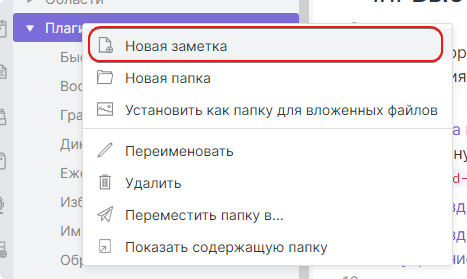
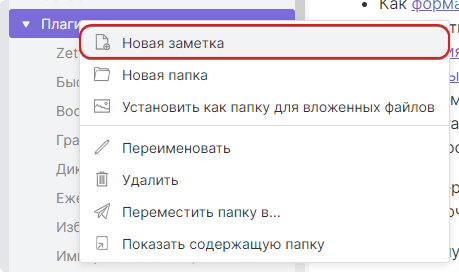
20210505 -- re-taked few images
20210505 -- re-taked few images

diff --git a/Плагины/Восстановление файлов.md b/Плагины/Восстановление файлов.md
@@ -21,7 +21,7 @@
 3. Нажмите на кнопку «Обзор» в подразделе «Снимки»;
 4. В открывшемся окне, в строке поиска слева, наберите имя файла, который вы хотите восстановить. Если имя файла не отображается, это означает, что для этого файла не было сделано снимков;
 5. После выбора нужного файла с левой стороны будет отображаться список сделанных снимков по дате. Выберите тот, который хотите восстановить;
-6. Содержимое снимка будет отображаться с правой стороны окна. Вы можете выбрать для копирования какую-либо его часть или нажать на кнопку «Скопировать в буфер обмена» (Copy to clipboard), чтобы скопировать его содержимое целиком.
+6. Содержимое снимка будет отображаться с правой стороны окна. Вы можете выбрать для копирования какую-либо его часть или нажать на кнопку «Скопировать в буфер обмена», чтобы скопировать его содержимое целиком.
 
 ## Настройки
 

diff --git a/Плагины/Шаблоны.md b/Плагины/Шаблоны.md
@@ -34,4 +34,4 @@ _Подсказка: если вы хотите иметь два формата
 
 ### Использование пользовательских форматов дат в других местах
 
-В настоящее время такие форматы даты и времени, как `{{date:YYYY-MM-DD}}` и `{{time:HH:mm}}` также работают в файле шаблонов плагинов [[Ежедневные заметки]] и [[Префикс Zettelkasten]]. Однако, `{{date}}` и `{{time}}` пока не работают.
+В настоящее время такие форматы даты и времени, как `{{date:YYYY-MM-DD}}` и `{{time:HH:mm}}` также работают в файле шаблонов плагинов [[Ежедневные заметки]] и [[Zettelkasten]]. Однако, `{{date}}` и `{{time}}` пока не работают.

diff --git a/Руководства/Добавление псевдонимов к заметке.md b/Руководства/Добавление псевдонимов к заметке.md
@@ -26,7 +26,7 @@ aliases: [ИИ, Искусственный Интеллект]
 
 ![[Insert alises.png]]
 
-Внутренняя ссылка будет вставлена следующим образом: `[[Добавление псевдонима к заметке|псевдоним]]`.
+Внутренняя ссылка будет вставлена следующим образом: `[[Добавление псевдонимов к заметке|псевдоним]]`.
 
 Примечание: ссылка на псевдоним заметки **НЕ** вставляется как `[[псевдоним]]` для обеспечения совместимости, чтобы другие приложения также могли распознать ее.
 

diff --git a/Руководства/Работа с обратными ссылками.md b/Руководства/Работа с обратными ссылками.md
@@ -1,6 +1,6 @@
 Обратные ссылки — одна из самых мощных функций Obsidian. Однако иногда их использование может сбить с толку. Далее размещены некоторые советы, которые могут помочь вам.
 
-Панель обратных состоит из двух разделов — «Упоминания со ссылкой» и «Упоминания без ссылки»:
+Панель обратных ссылок состоит из двух разделов — «Упоминания со ссылкой» и «Упоминания без ссылки»:
 
 ![[Backlinks.png]]
 

diff --git a/Плагины/Zettelkasten.md b/Плагины/Zettelkasten.md
@@ -1,0 +1,3 @@
+Плагин «Zettelkasten» добавляет новую кнопку в левую панель, с помощью которой можно создать новый файл и задать префикс в имени в виде текущего времени. Это может быть полезно, если вы являетесь сторонником Zettelkasten-метода использования UID в именах файлов (уникальное имя файла).
+
+Форматом по умолчанию является 12-значная метка времени. Например, "202001010000".

diff --git a/README.md b/README.md
@@ -92,4 +92,4 @@ Tag pane                       | [[Панель тегов]]                    
 Templates                      | [[Шаблоны]]                                | ✔
 Word count                     | [[Счетчик слов]]                           | ✔
 Workspaces                     | [[Пространства]]                           | ✔
-Zettelkasten prefixer          | [[Префикс Zettelkasten]]                   | ✔
+Zettelkasten prefixer          | [[Zettelkasten]]                   | ✔

diff --git a/Руководства/Импорт данных.md b/Руководства/Импорт данных.md
@@ -48,4 +48,4 @@
 
 Для того чтобы исправить это, вы можете использовать плагин [[Импорт Markdown-файлов]] для конвертации Zettelkasten ссылок в формат `[[202001010000 My Note]]` или в `[[202001010000 My Note|My Note]]`.
 
-Вас также может заинтересовать плагин [[Префикс Zettelkasten]].
+Вас также может заинтересовать плагин [[Zettelkasten]].

diff --git a/Obsidian/Сведения об авторах.md b/Obsidian/Сведения об авторах.md
@@ -30,9 +30,11 @@
 - canzi-teacher, 蚕子 (Chinese Simplified)
 - Daniel Mathiot (French)
 - Henrik Falk (Danish)
+- JxhnnyUt8h (Russian) 
 - k-andzhanovskii, Константин Анджановский (Russian)
 - lisachev, Сергей Лисачев (Russian)
 - mafsi, (Patrick Danilevici) (Română)
+- taksas, 中山 拓海 (Japanese)
 - VKondakoff, Валерий Кондаков (Russian)
 - yo-goto, ぱだわん (Japanese)
 

diff --git a/Плагины/Список плагинов.md b/Плагины/Список плагинов.md
@@ -19,7 +19,7 @@
 - [[Панель тегов]]
 - [[Палитра команд]]
 - [[Ежедневные заметки]]
-- [[Префикс Zettelkasten]]
+- [[Zettelkasten]]
 - [[Импорт Markdown-файлов]]
 - [[Случайная заметка]]
 - [[Избранное]]
